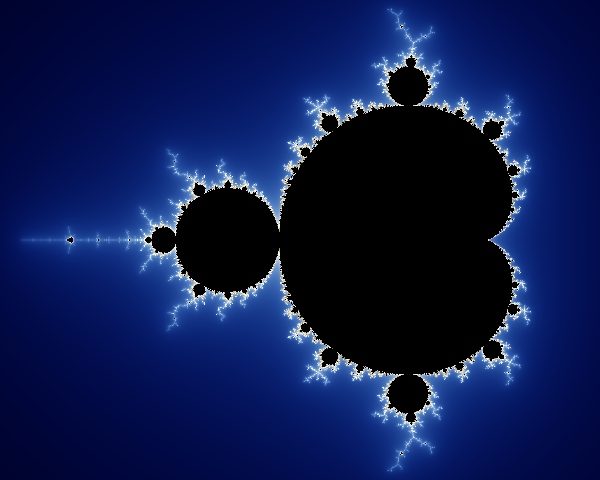
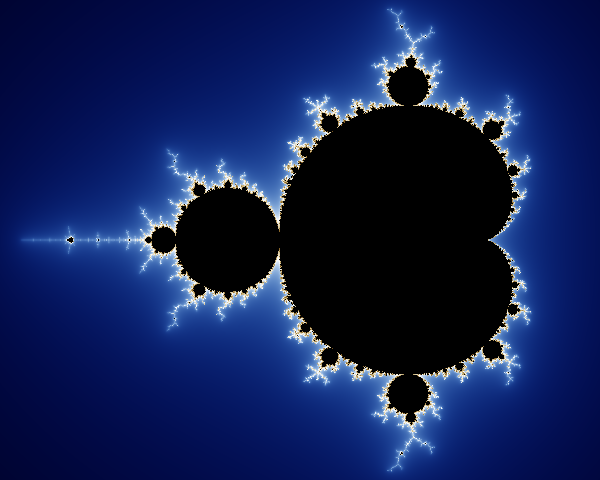
minor changes

Changed region(s): [[0.09, 0.0312, 0.9, 0.9688], [0.81, 0.4688, 0.84, 0.5312]]

diff --git a/src/navierstokes/shader.py b/src/navierstokes/shader.py
@@ -1,0 +1,166 @@
+import ctypes as ct
+import pyglet.gl as gl
+
+
+class Shader(object):
+
+    def __init__(self, vert, frag):
+        self.program = gl.glCreateProgram()
+        self.compile_and_attach_shader(vert, gl.GL_VERTEX_SHADER)
+        self.compile_and_attach_shader(frag, gl.GL_FRAGMENT_SHADER)
+        self.link()
+
+
+    def compile_and_attach_shader(self, source_strings, shader_type):
+        '''
+        source_strings:
+            a list of one or more strings that are possibly read from some files.
+        shader_type:
+            must be one of gl.GL_VERTEX_SHADER, gl.GL_FRAGMENT_SHADER, gl.GL_GEOMETRY_SHADER
+
+        main steps to compile and attach a shader:
+
+        1. glCreateShader:
+                create a shader of given type
+        2. glShaderSource:
+                load source code into the shader
+        3. glCompileShader:
+                compile the shader
+        4. glGetShaderiv:
+                retrieve the compile status
+        5. glGetShaderInfoLog:
+                print the error info if compiling failed
+        6. glAttachShader:
+                attach the shader to our program if compiling successed
+        '''
+        # a preprocessing to make the code compatible with python3.
+        src = tuple(s.encode('ascii') for s in source_strings)
+
+        # 1. create a shader
+        shader = gl.glCreateShader(shader_type)
+
+        # 2. load source code into the shader
+        src_p = (ct.c_char_p * len(src))(*src)
+        gl.glShaderSource(shader, len(src), ct.cast(ct.pointer(src_p), ct.POINTER(ct.POINTER(ct.c_char))), None)
+
+        # 3. compile the shader
+        gl.glCompileShader(shader)
+
+        # 4. retrieve the compile status
+        compile_status = gl.GLint(0)
+        gl.glGetShaderiv(shader, gl.GL_COMPILE_STATUS, ct.byref(compile_status))
+
+        # 5. if compiling failed then print the error log
+        if not compile_status:
+            info_length = gl.GLint(0)
+            gl.glGetShaderiv(shader, gl.GL_INFO_LOG_LENGTH, ct.byref(info_length))
+            error_info = ct.create_string_buffer(info_length.value)
+            gl.glGetShaderInfoLog(shader, info_length, None, error_info)
+            print(error_info.value)
+
+        # 6. else attach the shader to our program
+        else:
+            gl.glAttachShader(self.program, shader)
+
+
+    def link(self):
+        '''
+        main steps to link the program:
+
+        1. glLinkProgram:
+                linke the shaders in the program to create an executable
+        2. glGetProgramiv:
+                retrieve the link status
+        3. glGetProgramInfoLog:
+                print the error log if link failed
+        '''
+        gl.glLinkProgram(self.program)
+
+        link_status = gl.GLint(0)
+        gl.glGetProgramiv(self.program, gl.GL_LINK_STATUS, ct.byref(link_status))
+
+        if not link_status:
+            info_length = gl.GLint(0)
+            gl.glGetProgramiv(self.program, gl.GL_INFO_LOG_LENGTH, ct.byref(info_length))
+            error_info = ct.create_string_buffer(info_length.value)
+            gl.glGetProgramInfoLog(self.program, info_length, None, error_info)
+            print(error_info.value)
+
+
+    def bind(self):
+        gl.glUseProgram(self.program)
+
+
+    def unbind(self):
+        gl.glUseProgram(0)
+
+
+    def __enter__(self):
+        self.bind()
+        return self
+
+
+    def __exit__(self, exception_type, exception_value, traceback):
+        self.unbind()
+
+
+    def set_uniformi(self, name, *vals):
+        location = gl.glGetUniformLocation(self.program, name.encode('ascii'))
+        { 1: gl.glUniform1i,
+          2: gl.glUniform2i,
+          3: gl.glUniform3i,
+          4: gl.glUniform4i
+        }[len(vals)](location, *vals)
+
+
+    def set_uniformf(self, name, *vals):
+        location = gl.glGetUniformLocation(self.program, name.encode('ascii'))
+        { 1: gl.glUniform1f,
+            2: gl.glUniform2f,
+            3: gl.glUniform3f,
+            4: gl.glUniform4f
+        }[len(vals)](location, *vals)
+
+
+    def set_uniform_matrix(self, name, mat):
+        location = gl.glGetUniformLocation(self.program, name.encode('ascii'))
+        gl.glUniformMatrix4fv(location, 1, False, (ct.c_float * 16)(*mat))
+
+
+    def set_vertex_attrib(self, name, data):
+        '''
+        this is an ugly way to set vertex attribute data in a shader.
+        lacks the flexibility of setting several attributes in one vertex buffer.
+
+        name: the attribute name in the shader.
+        data: a list of vertex attributes (positions, colors, texcoords, normals,...)
+
+        example:
+        name = 'positions'
+        data = [(1, 1, 0), (2, 2, 1), ...]
+
+        the items in data must all be 1D lists(or tuples) of the same length.
+        '''
+        data_flatten = [x for vertex in data for x in vertex]
+        size = len(data[0])
+        data_ctype = (gl.GLfloat * len(data_flatten))(*data_flatten)
+
+        vbo_id = gl.GLuint(0)
+        gl.glGenBuffers(1, ct.byref(vbo_id))
+        gl.glBindBuffer(gl.GL_ARRAY_BUFFER, vbo_id)
+        gl.glBufferData(gl.GL_ARRAY_BUFFER, ct.sizeof(data_ctype), data_ctype, gl.GL_STATIC_DRAW)
+
+        location = gl.glGetAttribLocation(self.program, name.encode('ascii'))
+        gl.glEnableVertexAttribArray(location)
+        gl.glVertexAttribPointer(location, size, gl.GL_FLOAT, gl.GL_FALSE, 0, 0)
+        gl.glBindBuffer(gl.GL_ARRAY_BUFFER, 0)
+        return vbo_id
+
+
+    @classmethod
+    def from_files(self, vert_file, frag_file):
+        with open(vert_file, 'r') as f:
+            vert = f.readlines()
+        with open(frag_file, 'r') as f:
+            frag = f.readlines()
+        return Shader(vert, frag)

diff --git a/src/navierstokes/framebuffer.py b/src/navierstokes/framebuffer.py
@@ -1,0 +1,39 @@
+'''
+ A very simple helper class for handling the frame buffer object(fbo).
+'''
+
+import ctypes as ct
+import pyglet.gl as gl
+
+
+class FrameBuffer(object):
+
+    def __init__(self):
+        framebuffer = gl.GLuint(0)
+        gl.glGenFramebuffersEXT(1, ct.byref(framebuffer))
+        self.buff_id = framebuffer
+
+
+    def bind(self):
+        gl.glBindFramebufferEXT(gl.GL_FRAMEBUFFER_EXT, self.buff_id)
+
+
+    def unbind(self):
+        gl.glBindFramebufferEXT(gl.GL_FRAMEBUFFER_EXT, 0)
+
+
+    def attach_texture(self, texture):
+        '''
+        texture must be an instance of pyglet's texture class.
+        '''
+        gl.glFramebufferTexture2DEXT(gl.GL_FRAMEBUFFER_EXT, gl.GL_COLOR_ATTACHMENT0_EXT,
+                                     texture.target, texture.id, texture.level)
+
+
+    def __enter__(self):
+        self.bind()
+        return self
+
+
+    def __exit__(self, exception_type, exception_value, traceback):
+        self.unbind()

diff --git a/src/misc/mandelbrot.py b/src/misc/mandelbrot.py
@@ -14,7 +14,7 @@ RADIUS = 100
 
 @jit
 def color(z, i):
-    v = np.log2(i + 1 - np.log2(np.log2(abs(z)))) / 5.5
+    v = np.log2(i + 1 - np.log2(np.log2(abs(z)))) / 5
     if v < 1.0:
         return v**4, v**2.5, v
     else:

diff --git a/src/navierstokes/README.md b/src/navierstokes/README.md
@@ -1,1 +1,1 @@
-# A Fluid Simulator with Navier Stokes Equation.
+# Fluid Simulation with Navier-Stokes Equation.
